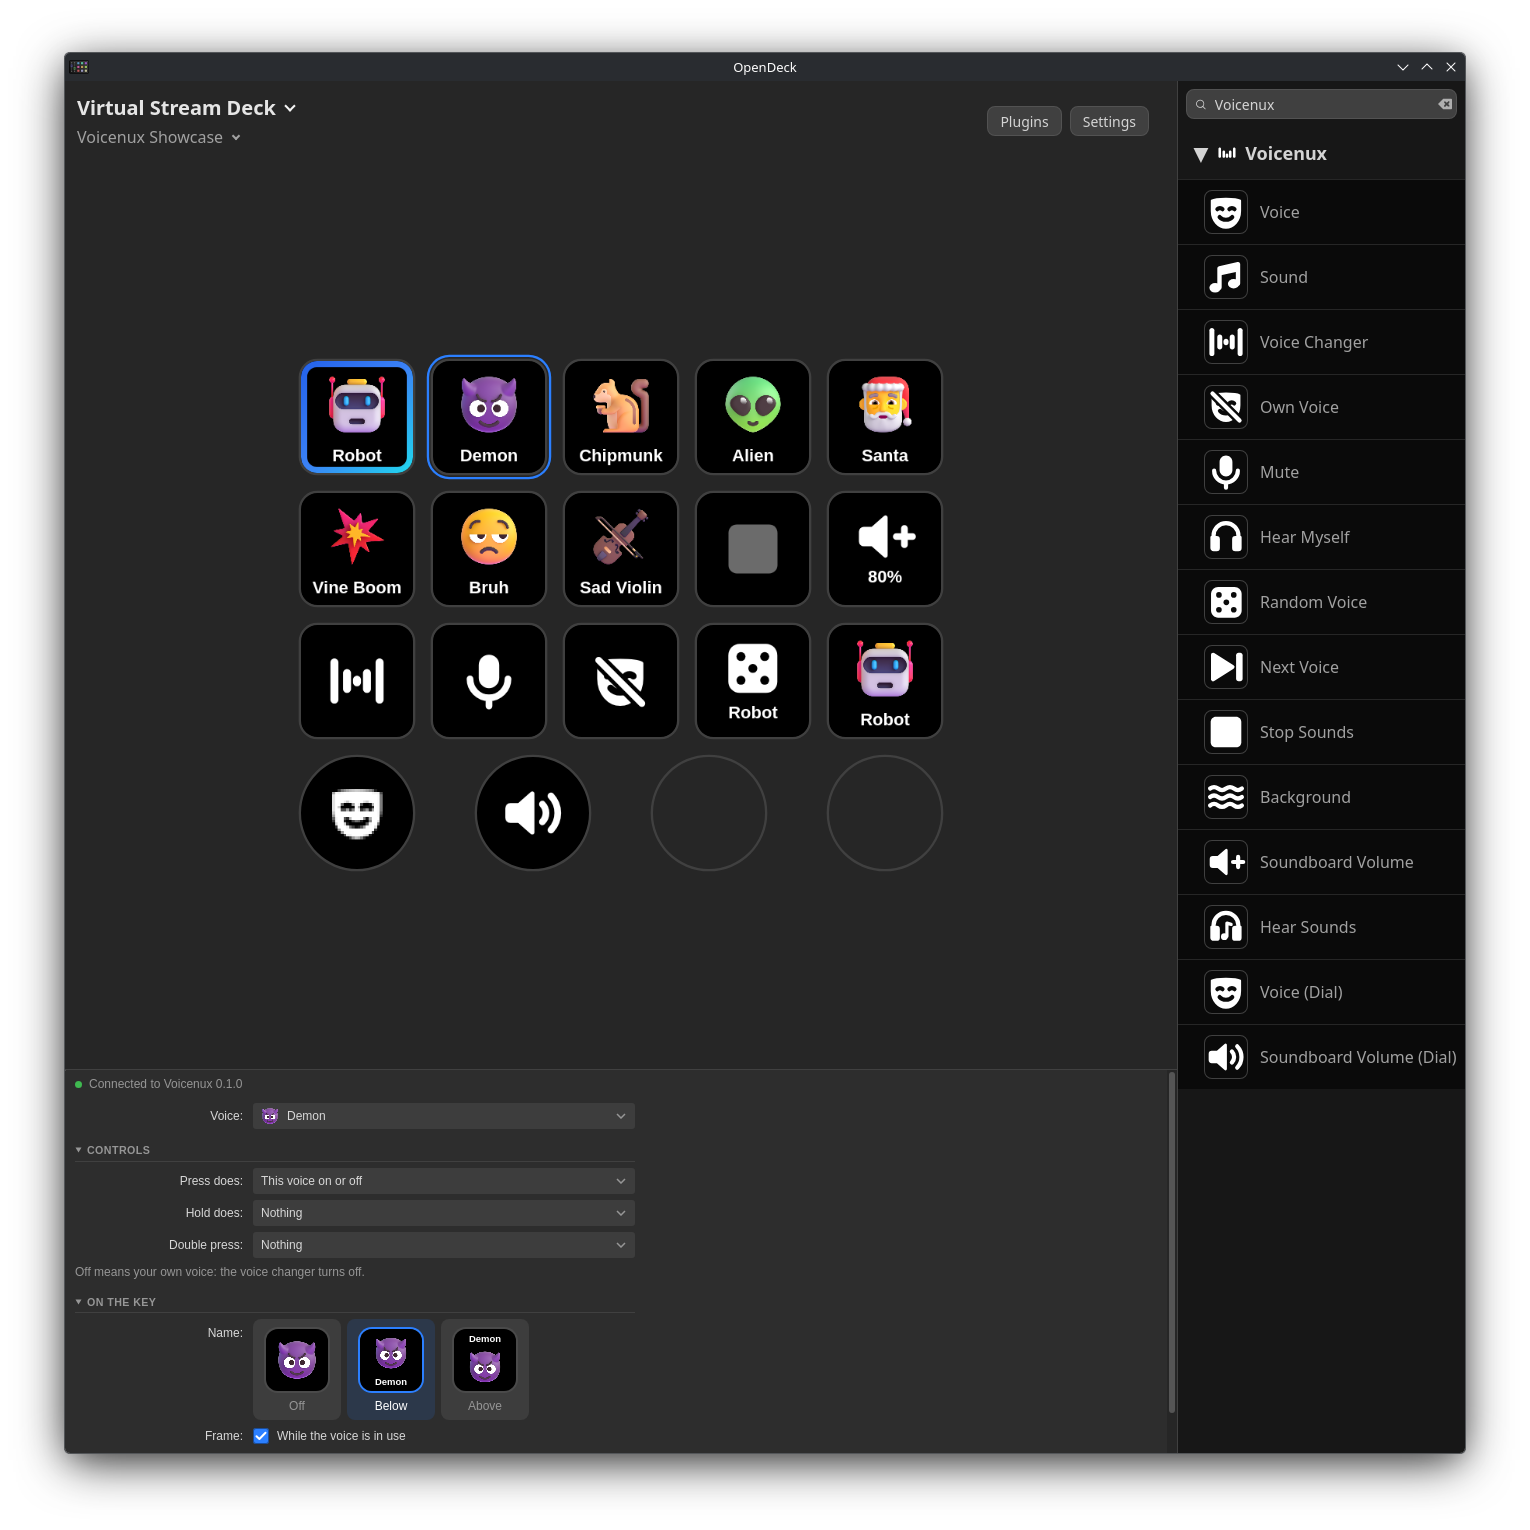
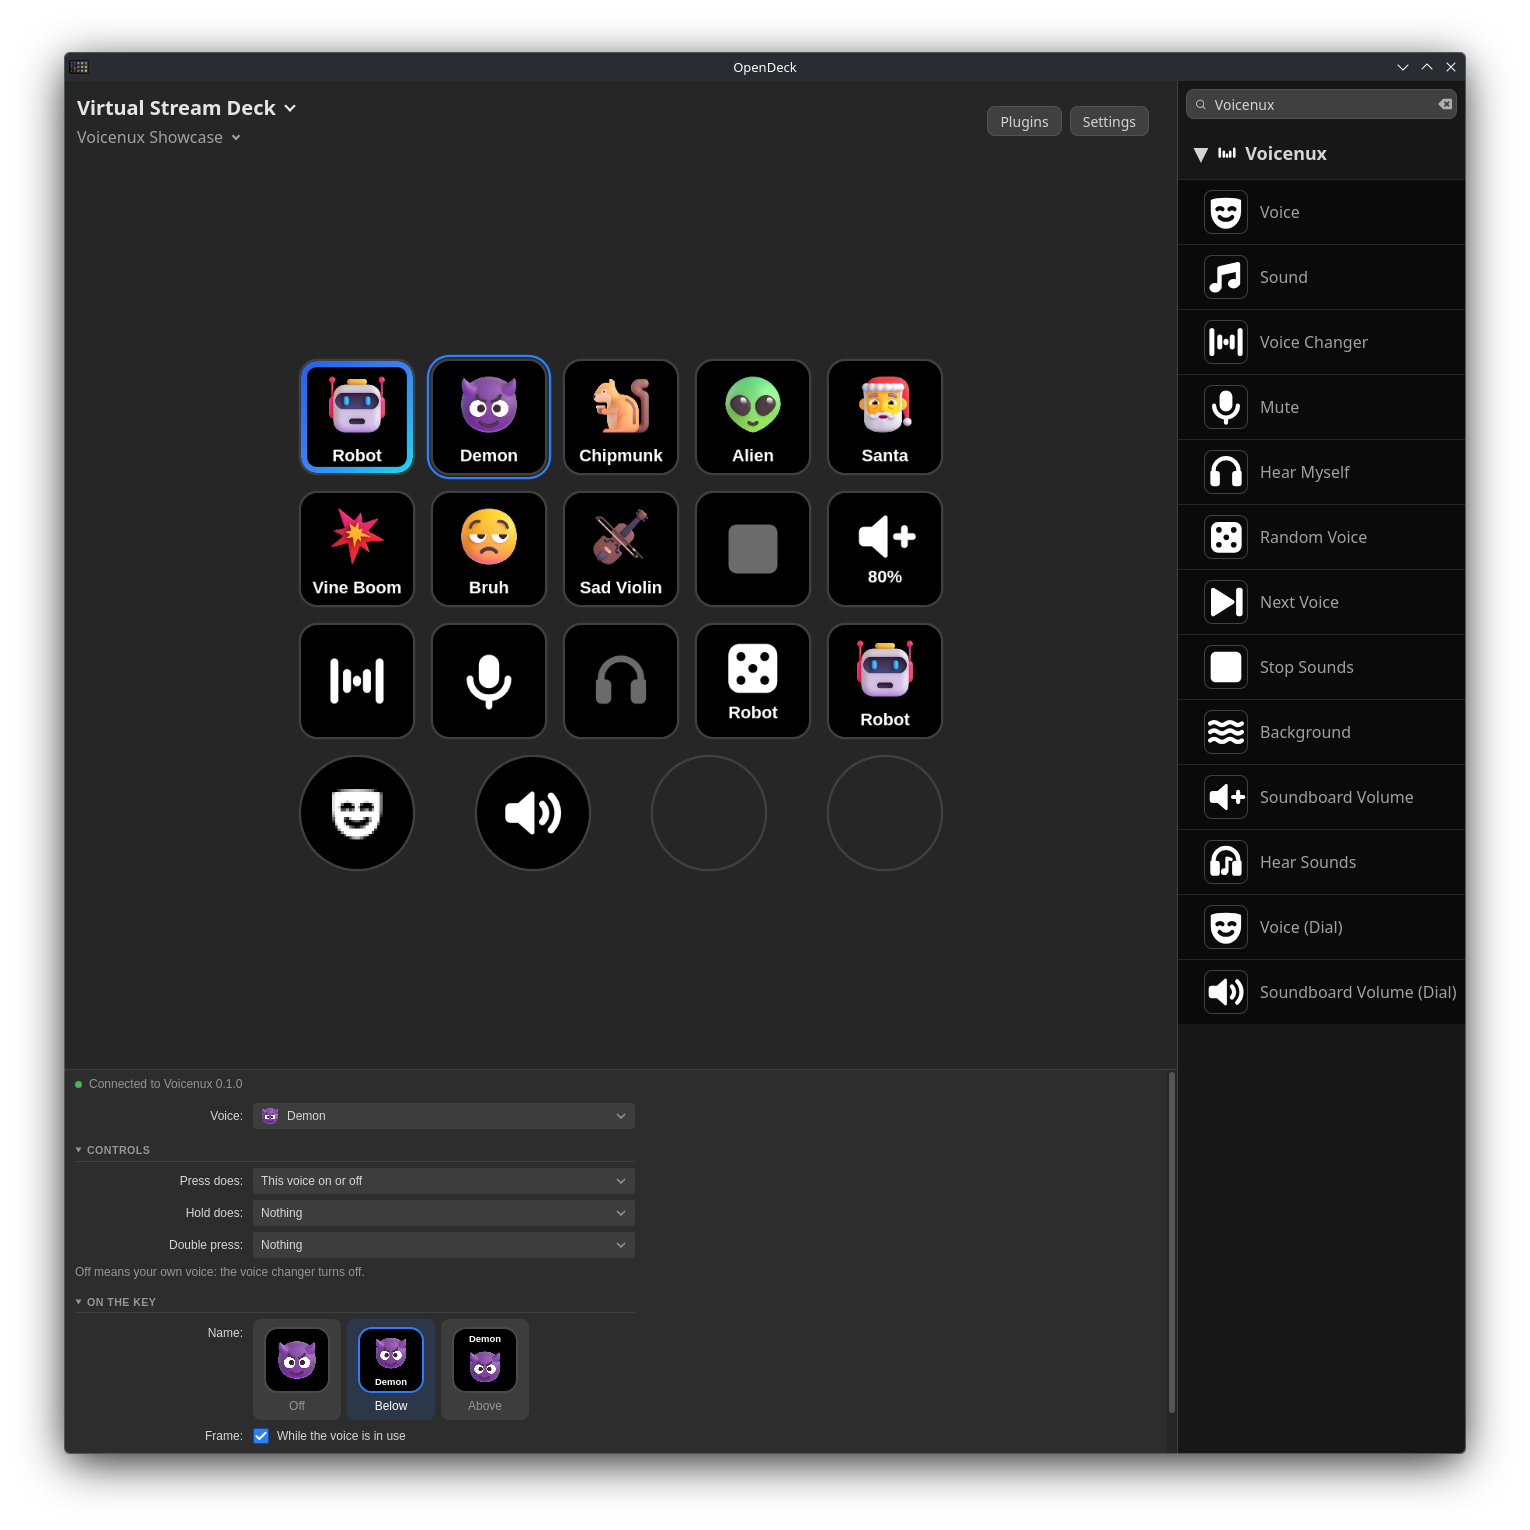
revert: own voice key

diff --git a/de.felitendo.voicenux.sdPlugin/plugin/lib/icons.js b/de.felitendo.voicenux.sdPlugin/plugin/lib/icons.js
@@ -14,8 +14,6 @@ const speaker = `<path d="M3.5 9.2h3.2L11.5 5v14l-4.8-4.2H3.5a1 1 0 0 1-1-1v-3.6
 const bar = (x, y, h) => `<rect x="${x}" y="${y}" width="3" height="${h}" rx="1.5" ${fill} stroke="none"/>`;
 const capsule = `<rect x="8" y="1.8" width="8" height="13" rx="4"/>`;
 const cups = `<path d="M3 13.5h3.2a1.3 1.3 0 0 1 1.3 1.3v5.4a1.3 1.3 0 0 1-1.3 1.3H4.3A1.3 1.3 0 0 1 3 20.2zM21 13.5h-3.2a1.3 1.3 0 0 0-1.3 1.3v5.4a1.3 1.3 0 0 0 1.3 1.3h1.9a1.3 1.3 0 0 0 1.3-1.3z" ${fill} stroke-width="1.4"/>`;
-const mask = `<path d="M3 4.2c2.6-1.6 15.4-1.6 18 0v6.6c0 6.2-4.3 10.6-9 10.6S3 17 3 10.8z" stroke="#FFF" stroke-width="1.2" stroke-linejoin="round"/>`;
-const face = `<path d="M6.6 9.6c.8-.9 2.4-.9 3.2 0M14.2 9.6c.8-.9 2.4-.9 3.2 0M8 14.6c2 2.3 6 2.3 8 0"/>`;
 const pip = (x, y) => `<circle cx="${x}" cy="${y}" r="1.75" fill="#000" stroke="none"/>`;
 
 export const GLYPHS = {
@@ -23,9 +21,11 @@ export const GLYPHS = {
 	plugin: bar(2, 6, 12) + bar(6.75, 9.5, 8.5) + bar(10.5, 13, 5) + bar(14.25, 9.5, 8.5) + bar(19, 6, 12),
 	voicechanger: bar(2, 3.5, 17) + bar(6.75, 7.5, 9) + bar(10.5, 10, 4) + bar(14.25, 7.5, 9) + bar(19, 3.5, 17),
 	// A mask: a voice that is not yours.
-	voice: cut("voice", mask, face),
-	// The mask struck through: no voice on, your own one.
-	ownVoice: cut("ownVoice", mask, `${face}<path d="m3 3 18 18" stroke-width="6"/>`, `<path d="m3 3 18 18"/>`),
+	voice: cut(
+		"voice",
+		`<path d="M3 4.2c2.6-1.6 15.4-1.6 18 0v6.6c0 6.2-4.3 10.6-9 10.6S3 17 3 10.8z" stroke="#FFF" stroke-width="1.2" stroke-linejoin="round"/>`,
+		`<path d="M6.6 9.6c.8-.9 2.4-.9 3.2 0M14.2 9.6c.8-.9 2.4-.9 3.2 0M8 14.6c2 2.3 6 2.3 8 0"/>`,
+	),
 	// Two beamed notes.
 	sound: `<path d="M8.6 17.6V6.2l11-2.4v11.4" stroke-width="2.6"/><path d="M8.6 6.2l11-2.4v3.6l-11 2.4z" ${fill} stroke-width="1.4"/><ellipse cx="6" cy="17.8" rx="3.4" ry="2.8" ${fill} stroke="none"/><ellipse cx="17" cy="15.4" rx="3.4" ry="2.8" ${fill} stroke="none"/>`,
 	mic: `${capsule.replace("/>", ` ${fill} stroke="none"/>`)}<path d="M4.6 11.2a7.4 7.4 0 0 0 14.8 0M12 18.6v3.2"/>`,

diff --git a/de.felitendo.voicenux.sdPlugin/plugin/lib/i18n.js b/de.felitendo.voicenux.sdPlugin/plugin/lib/i18n.js
@@ -120,7 +120,6 @@ const DE = {
 	"Play on top: every press starts it once more, over the one that still plays.": "Übereinander abspielen: Jeder Druck startet ihn noch einmal, über dem, der noch läuft.",
 	"Play on top needs a newer Voicenux": "Übereinander abspielen braucht ein neueres Voicenux",
 	"While the sound plays": "Solange der Sound läuft",
-	"Back to your own voice: turns the voice changer off, whatever voice is on. The key is white while a voice is on.": "Zurück zur eigenen Stimme: Schaltet den Stimmverzerrer aus, egal welche Stimme an ist. Die Taste ist weiß, solange eine Stimme an ist.",
 	"Turns the voice changer on or off. When it is off, others hear your own voice.": "Schaltet den Stimmverzerrer an oder aus. Ist er aus, hören andere deine echte Stimme.",
 	"Mutes your microphone in Voicenux. Others hear nothing, sounds of the soundboard still play.": "Schaltet dein Mikrofon in Voicenux stumm. Andere hören dich nicht, Sounds vom Soundboard laufen weiter.",
 	Mute: "Stummschalten",

diff --git a/de.felitendo.voicenux.sdPlugin/plugin/actions/switches.js b/de.felitendo.voicenux.sdPlugin/plugin/actions/switches.js
@@ -68,26 +68,6 @@ export class HearSounds extends Switch {
 	static api = "hear-sounds";
 }
 
-// Back to your own voice: turns the voice changer off, whatever voice is on. White while a voice
-// is on, gray when you already speak with your own voice.
-export class OwnVoice extends Action {
-	static uuid = `${ID}.ownvoice`;
-	static defaults = {};
-
-	renderOffline() {
-		this.setState(0);
-	}
-
-	render() {
-		this.setState(this.vn.voice_changer ? 1 : 0);
-	}
-
-	async onPress() {
-		await this.call("voice-changer", "off");
-		this.render();
-	}
-}
-
 // Mutes the microphone. Red when muted. talk: on only while the key is held (push to talk).
 // holdMute: muted only while held.
 export class Mute extends Action {

diff --git a/de.felitendo.voicenux.sdPlugin/plugin/actions/index.js b/de.felitendo.voicenux.sdPlugin/plugin/actions/index.js
@@ -1,5 +1,5 @@
 import { SoundVolume, SoundVolumeDial, Sound, StopSounds } from "./sounds.js";
-import { Background, HearMyself, HearSounds, Mute, OwnVoice, VoiceChanger } from "./switches.js";
+import { Background, HearMyself, HearSounds, Mute, VoiceChanger } from "./switches.js";
 import { NextVoice, RandomVoice, Voice, VoiceDial } from "./voices.js";
 
-export const ACTIONS = [Voice, Sound, VoiceChanger, OwnVoice, Mute, HearMyself, Background, RandomVoice, NextVoice, StopSounds, SoundVolume, HearSounds, VoiceDial, SoundVolumeDial];
+export const ACTIONS = [Voice, Sound, VoiceChanger, Mute, HearMyself, Background, RandomVoice, NextVoice, StopSounds, SoundVolume, HearSounds, VoiceDial, SoundVolumeDial];

diff --git a/de.felitendo.voicenux.sdPlugin/pi/schemas.js b/de.felitendo.voicenux.sdPlugin/pi/schemas.js
@@ -164,10 +164,6 @@ export const SCHEMAS = {
 		"Push for my own voice",
 		"Push to change voice: others hear your own voice, and the changed one only while you hold the key. Push for my own voice is the other way round.",
 	]),
-	[`${ID}.ownvoice`]: {
-		help: "Back to your own voice: turns the voice changer off, whatever voice is on. The key is white while a voice is on.",
-		fields: [],
-	},
 	[`${ID}.mute`]: {
 		help: "Mutes your microphone in Voicenux. Others hear nothing, sounds of the soundboard still play.",
 		fields: [

diff --git a/de.felitendo.voicenux.sdPlugin/plugin/lib/key-images.js b/de.felitendo.voicenux.sdPlugin/plugin/lib/key-images.js
@@ -11,8 +11,6 @@ export const KEY_IMAGES = {
 	sound: { glyph: "sound" },
 	voicechanger: { glyph: "voicechanger", color: G },
 	"voicechanger-on": { glyph: "voicechanger" },
-	ownvoice: { glyph: "ownVoice", color: G },
-	"ownvoice-on": { glyph: "ownVoice" },
 	unmuted: { glyph: "mic" },
 	muted: { glyph: "micOff", color: COLORS.red },
 	hearmyself: { glyph: "headphones", color: G },

diff --git a/de.felitendo.voicenux.sdPlugin/plugin/lib/glyph-fit.js b/de.felitendo.voicenux.sdPlugin/plugin/lib/glyph-fit.js
@@ -18,12 +18,6 @@ export const FIT = {
 		"w": 19.2,
 		"h": 19.6
 	},
-	"ownVoice": {
-		"cx": 12.183,
-		"cy": 11.733,
-		"w": 20.4,
-		"h": 20.4
-	},
 	"sound": {
 		"cx": 12.465,
 		"cy": 11.385,

diff --git a/README.md b/README.md
@@ -63,14 +63,13 @@ If Voicenux is not running, the keys show **Voicenux off**. If it does not let o
 ## Actions
 
 <details>
-<summary>All 14 actions</summary>
+<summary>All 13 actions</summary>
 
 | Action | What it does |
 |---|---|
 | Voice | Turn a voice on or off (off is your own voice), use it only while you hold the key, or star it. |
 | Sound | Play a sound from the start, on top, or play and stop it. |
 | Voice Changer | Turn the voice changer on or off, or push to change your voice. |
-| Own Voice | Back to your own voice, whatever voice is on. White while a voice is on. |
 | Mute | Mute or unmute your microphone, push to talk or push to mute. |
 | Hear Myself | Hear your changed voice in your headphones. |
 | Random Voice | A random voice, out of your favorites when you have two or more. |

diff --git a/CHANGELOG.md b/CHANGELOG.md
@@ -10,7 +10,7 @@ Welcome to Voicenux for OpenDeck `v0.1.0`! Control the Voicenux voice changer fr
 
 - Voice keys with the picture of their voice and a frame while it is in use
 - Sound keys that play from the start, on top, or play and stop, with a frame while they play
-- Voice changer, a key back to your own voice, mute, hear myself, background and hear sounds
+- Voice changer, mute, hear myself, background and hear sounds
 - Push to talk, push to change your voice, or a voice only while you hold its key
 - Random, next and previous voice, out of your favorites if you have some
 - Soundboard volume on a key or a dial, and a key to stop all sounds
